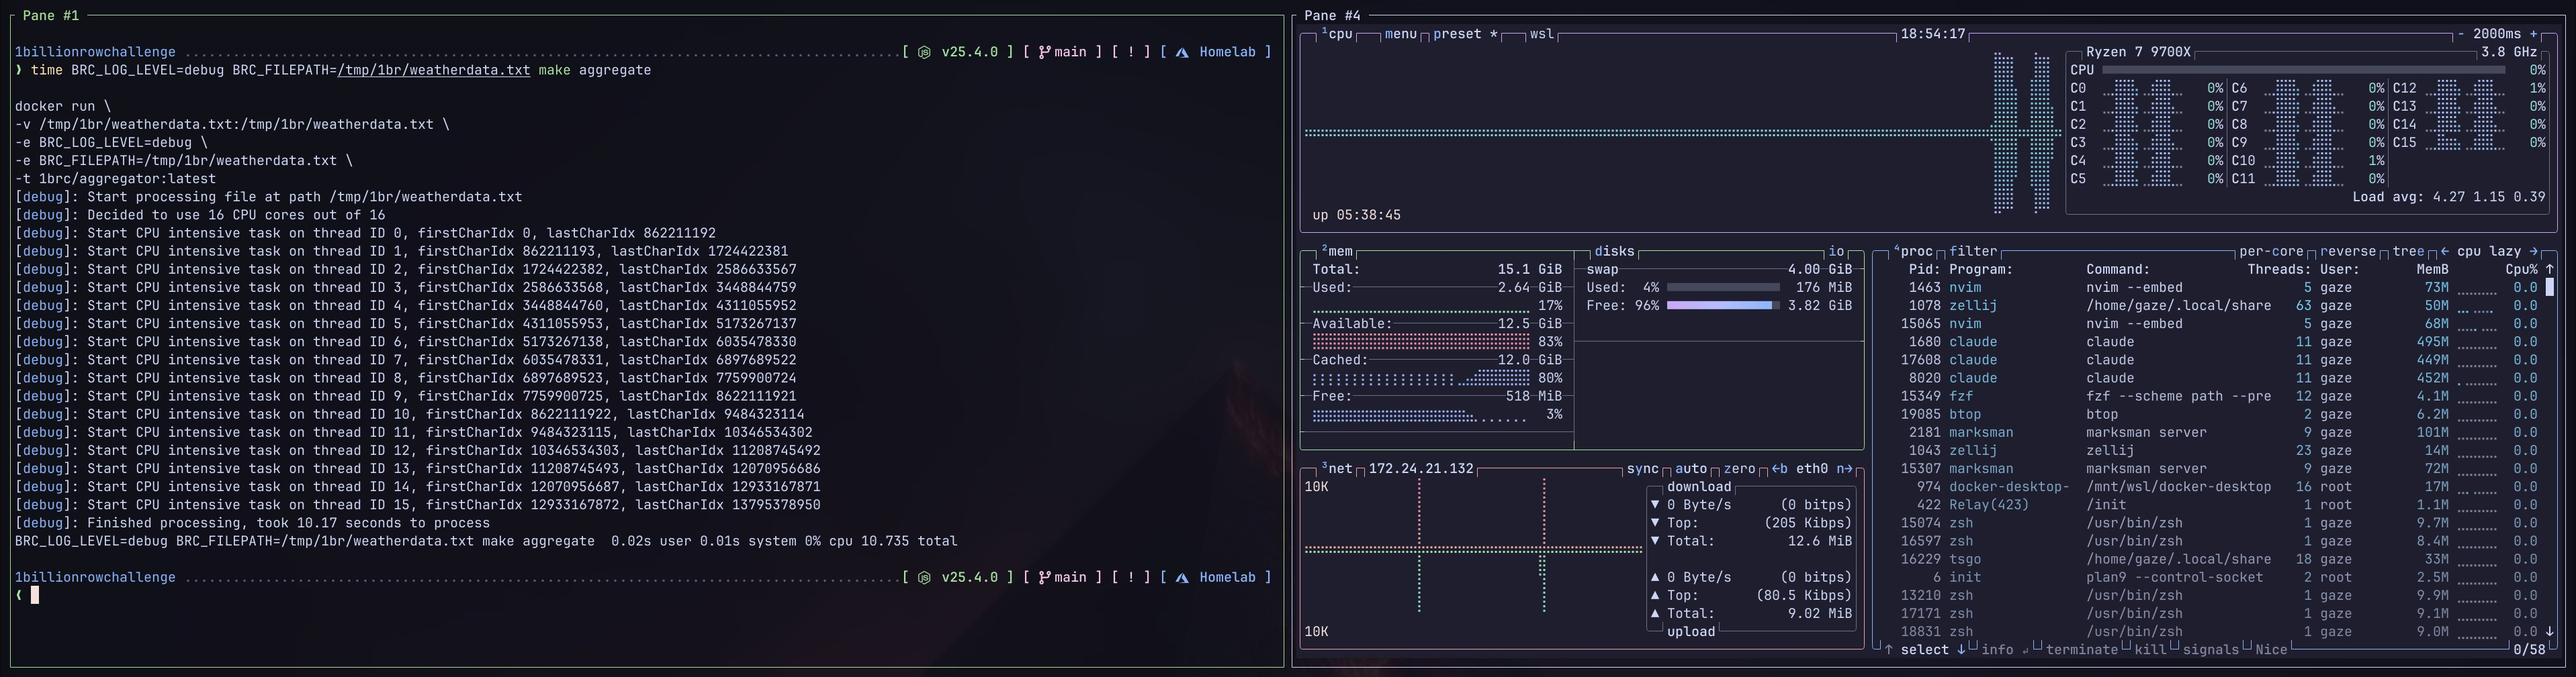
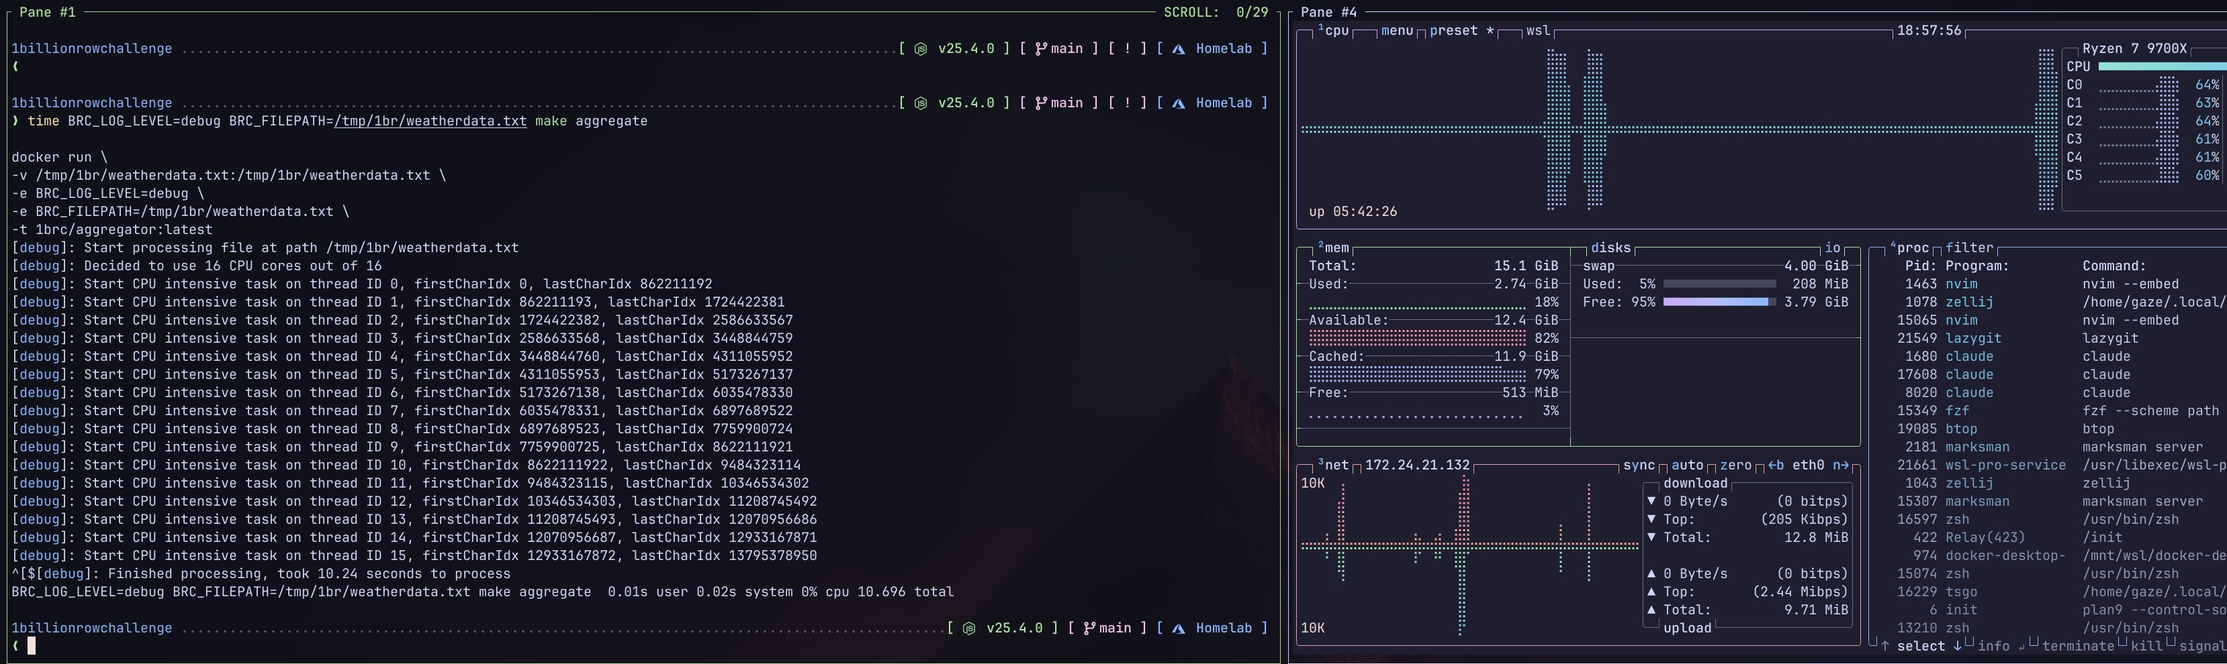
feat: modified screenshot and added note on what I managed to get down it to

diff --git a/README.md b/README.md
@@ -4,6 +4,9 @@ This is my personal take on the 1 billion row challenge where the task is to agg
 
 The original task can be found here -> [LINK](https://github.com/gunnarmorling/1brc)
 
+> [!NOTE]
+> Managed to get down to 10-11 seconds
+
 ![1Billionrow](./assets/screenshot-1billionrow.jpg)
 
 ##### Why JavaScript (Node.js)?
